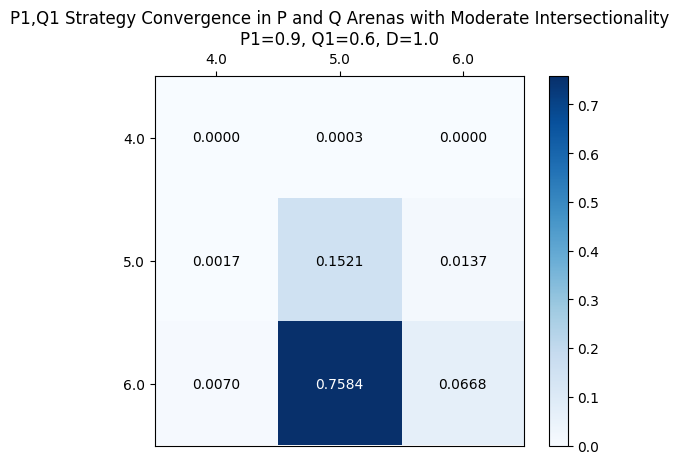
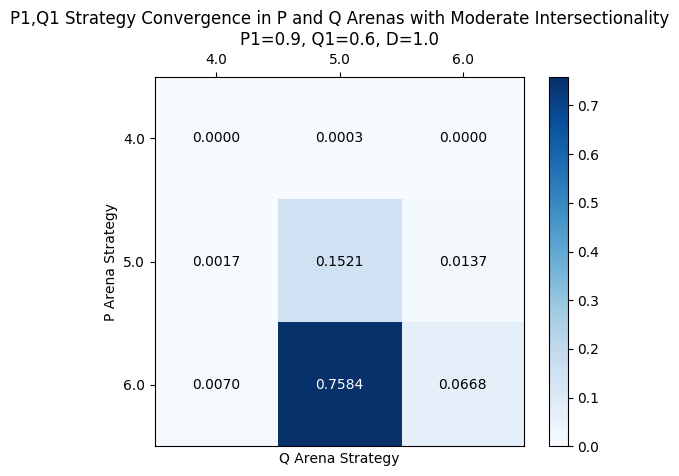
Added labels for each axis

diff --git a/src/main/python3/viz.py b/src/main/python3/viz.py
@@ -97,6 +97,8 @@ class EGTResult:
         """
         labels = [str(strategy) for strategy in self.strategies]
         title = f"P1,Q1 Strategy Convergence in P and Q Arenas with {self.simulation} Intersectionality\nP1={self.p1}, Q1={self.q1}, D={self.d}"
+        x_label = "Q Arena Strategy"
+        y_label = "P Arena Strategy"
 
         fig, ax = plt.subplots()
         ax.imshow(self.result_matrix)
@@ -123,8 +125,9 @@ class EGTResult:
                 label = "%.4f" % val
                 ax.text(j, i, label, ha="center", va="center", color=color)
 
+        plt.xlabel(x_label)
+        plt.ylabel(y_label)
         plt.title(title)
-        # plt.suptitle(subtitle)
         plt.colorbar(heatmap)
         # plt.show()
         # The name of the figure is the name of the parsed data file, and can be found at location at.
